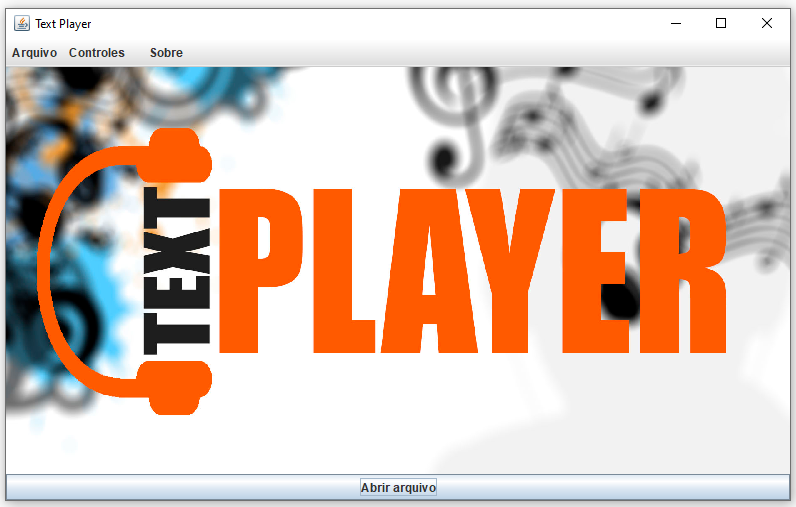
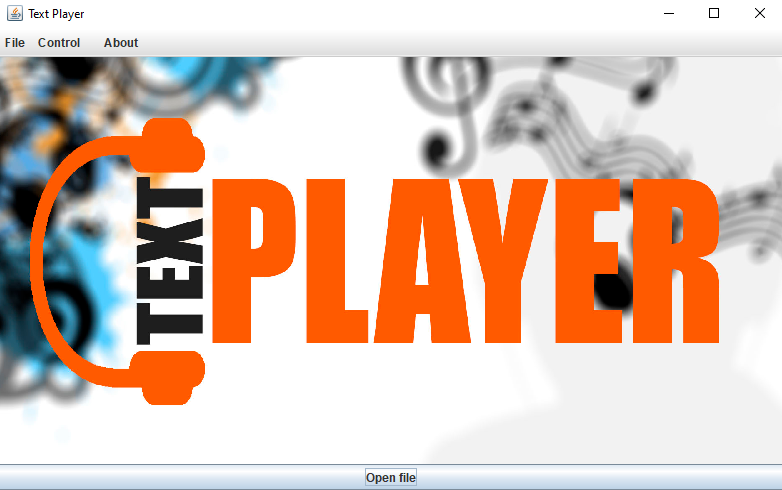
Views - text

diff --git a/src/views/TextPlayerView.java b/src/views/TextPlayerView.java
@@ -369,7 +369,7 @@ public class TextPlayerView extends JPanel implements View
 	 */
 	private void make_btn_change(JPanel panel, Object constraints)
 	{
-		JButton btn_changeFile = new JButton("Escolher outro arquivo");
+		JButton btn_changeFile = new JButton("Choose another file");
 		
 		
 		btn_changeFile.setEnabled(true);
@@ -389,7 +389,7 @@ public class TextPlayerView extends JPanel implements View
 	 */
 	private void open_file()
 	{
-		FileDialog fd = new FileDialog(frame, "Escolha um arquivo", FileDialog.LOAD);
+		FileDialog fd = new FileDialog(frame, "Choose a file", FileDialog.LOAD);
 		String filepath;
 		
 		

diff --git a/src/controllers/TextPlayerController.java b/src/controllers/TextPlayerController.java
@@ -59,7 +59,7 @@ public class TextPlayerController extends Controller
 		// Initializes TextPlayerView
 		textPlayerView = new TextPlayerView(this, mainFrame);
 		
-		// Updates top bar bottons
+		// Updates top bar buttons
 		updateControlsMenu();
 		
 		// Creates music player
